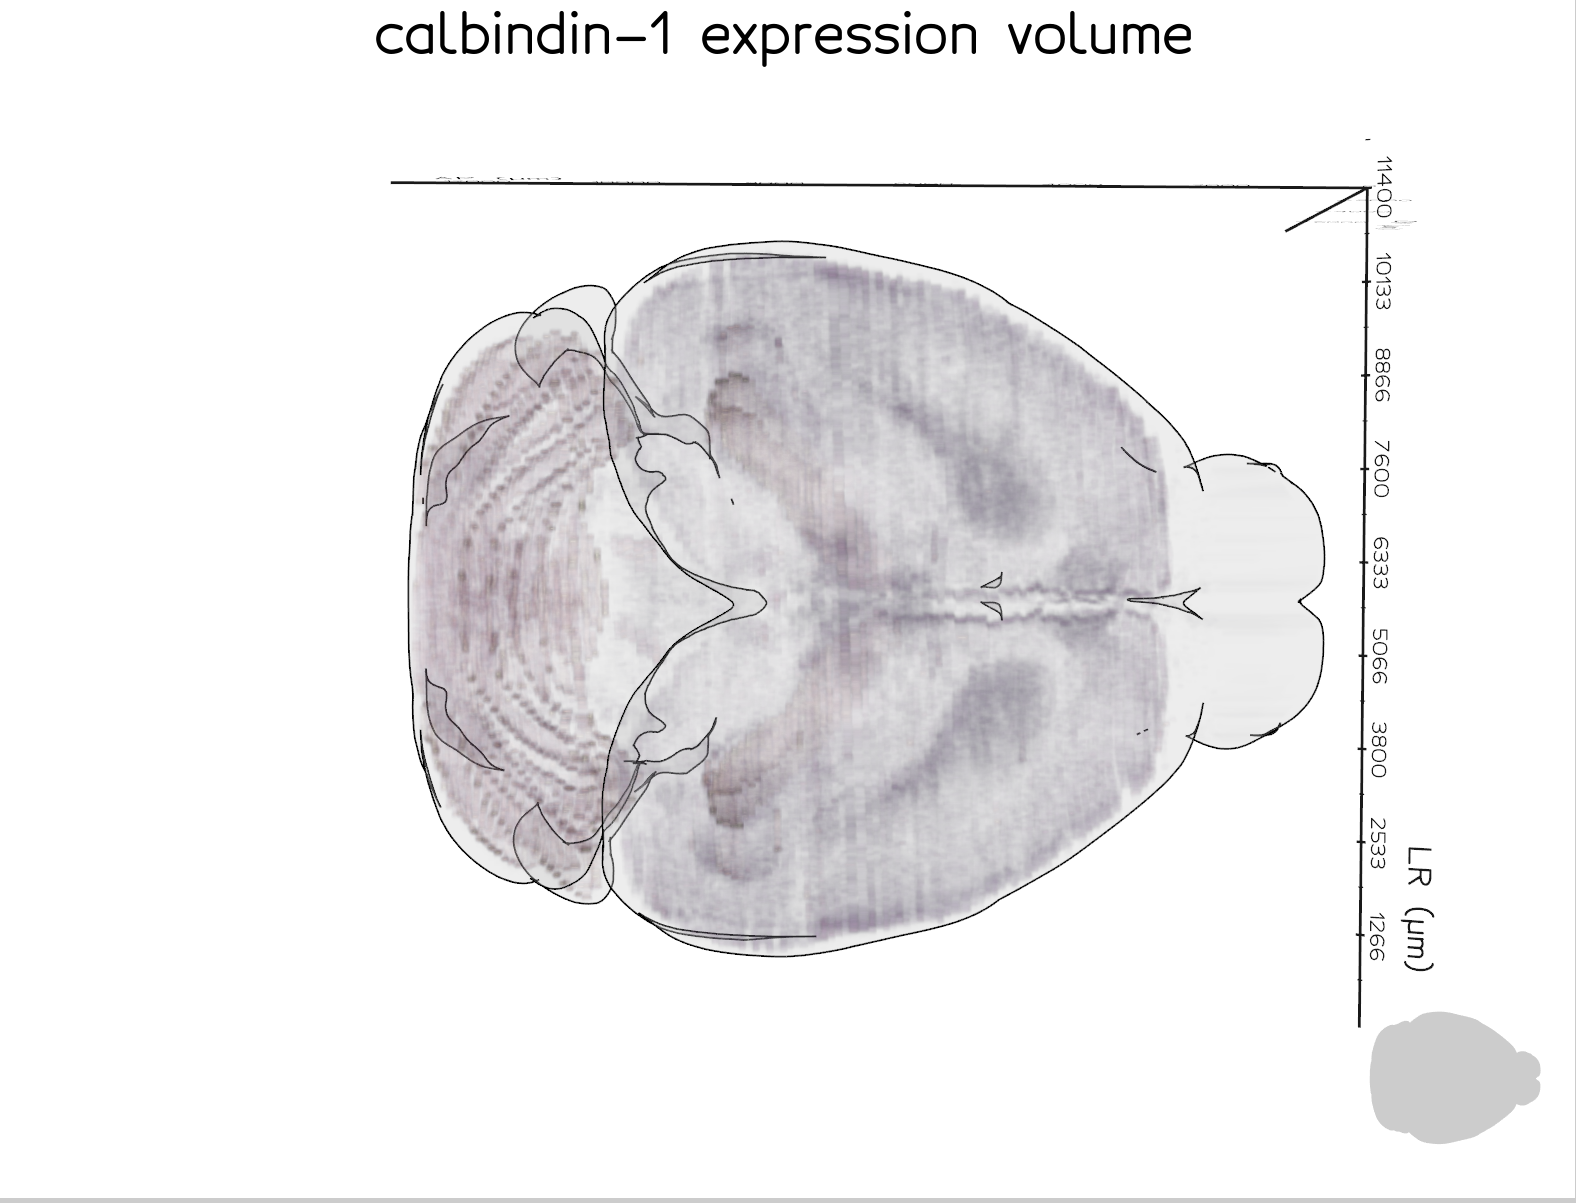
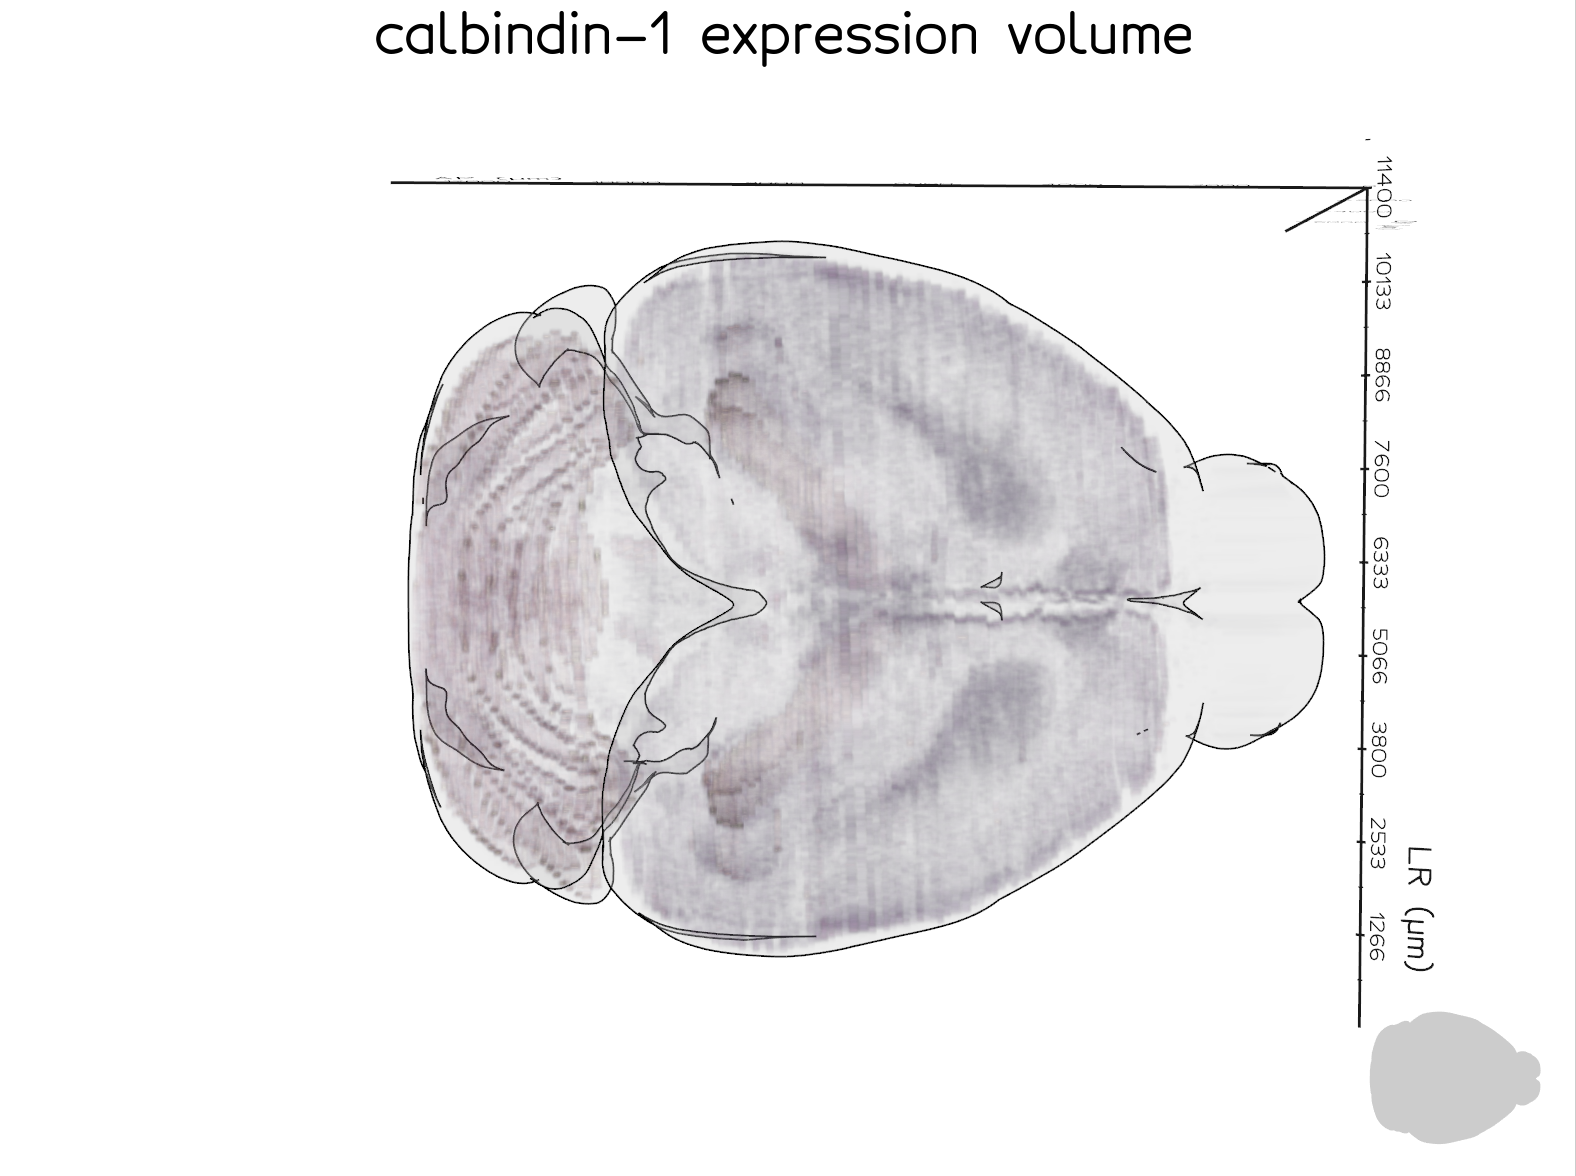
fix gallery thumbnail

diff --git a/source/_static/css/custom.css b/source/_static/css/custom.css
@@ -110,3 +110,17 @@ body[data-hide-sidebar="true"] .bd-main {
     justify-content: flex-start;
   }
 }
+
+/* Gallery: uniform image height, full image visible */
+.sd-card-img-top {
+  height: 180px;
+  object-fit: contain;
+  object-position: top;
+  background: white;
+}
+
+/* Calb1 card: crop to brain section, skipping the title whitespace */
+img.sd-card-img-top[src*="calb1_cross_section"] {
+  object-fit: cover;
+  object-position: bottom;
+}